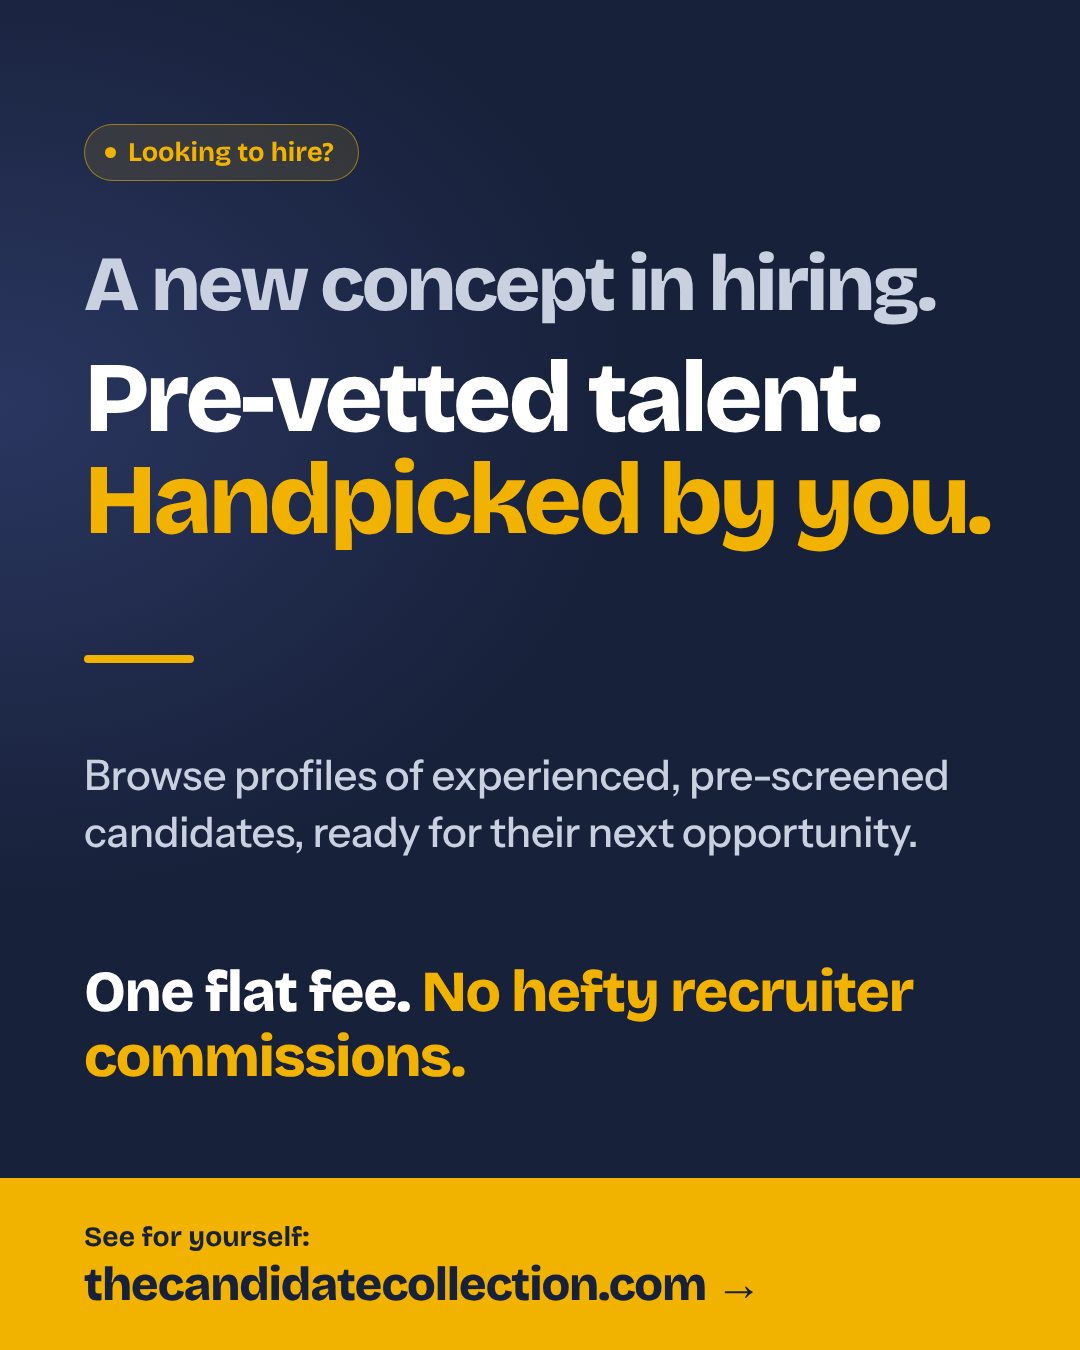
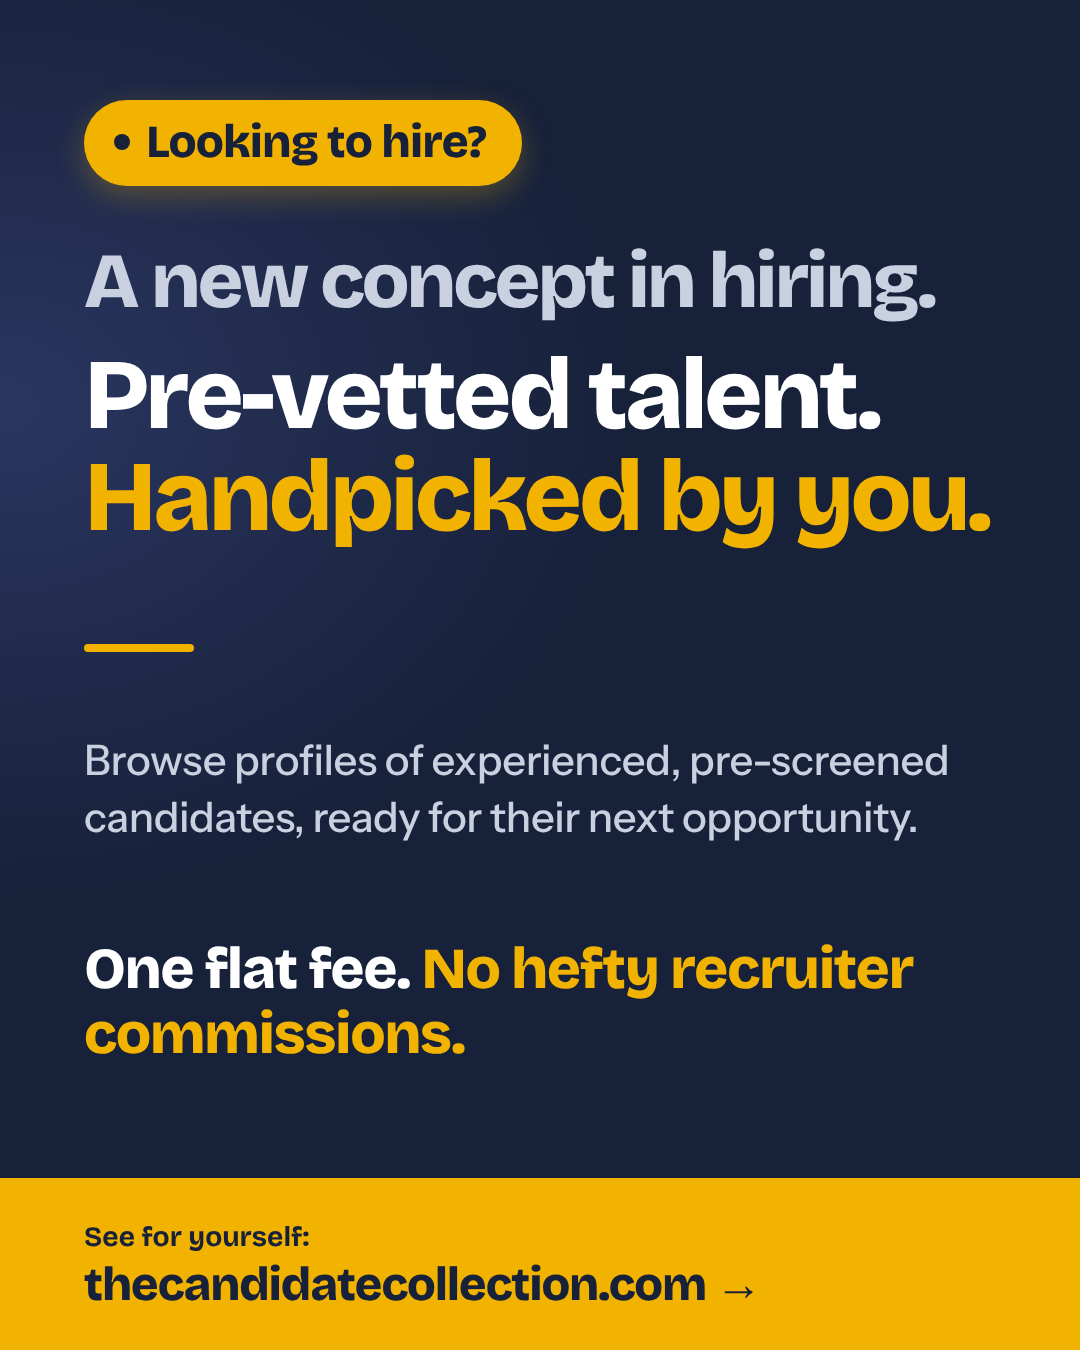
Share posters: bigger, solid 'Looking to hire?' label on all four, both sizes; poster sources kept in design/posters
Claude-Session: https://claude.ai/code/session_01EZeEyNzeQFPN4DFsUvzuMe

diff --git a/design/posters/words.html b/design/posters/words.html
@@ -1,0 +1,36 @@
+<!doctype html><meta charset="utf-8"><style>
+@font-face{font-family:B;src:url("file:///home/claude/hiring-platform/node_modules/@fontsource-variable/bricolage-grotesque/files/bricolage-grotesque-latin-wght-normal.woff2") format("woff2");font-weight:200 800}
+@font-face{font-family:I;src:url("file:///home/claude/hiring-platform/node_modules/@fontsource-variable/instrument-sans/files/instrument-sans-latin-wght-normal.woff2") format("woff2");font-weight:400 700}
+*{box-sizing:border-box}html,body{margin:0}
+body{width:1080px;height:var(--h);background:#17213a radial-gradient(900px 700px at 0% 30%, #2a3660 0%, rgba(42,54,96,0) 70%);color:#fff;font-family:I;position:relative;overflow:hidden}
+.in{position:absolute;left:84px;right:84px;top:var(--top)}
+.pill{display:inline-flex;align-items:center;gap:16px;background:#f2b300;color:#17213a;font-family:B;font-weight:800;font-size:46px;letter-spacing:-.02em;border-radius:999px;padding:14px 36px 17px 30px;box-shadow:0 10px 30px rgba(242,179,0,.28)}
+.pill i{width:16px;height:16px;border-radius:50%;background:#17213a}
+h1{font-family:B;font-weight:800;font-size:var(--h1);line-height:1.0;letter-spacing:-.04em;margin:var(--m1) 0 0;color:#c9d0e0}
+h2{font-family:B;font-weight:800;font-size:var(--h2);line-height:1.02;letter-spacing:-.04em;margin:var(--m2) 0 0;color:#fff}
+h2 span{color:#f2b300;display:block}.bar{width:110px;height:8px;border-radius:4px;background:#f2b300;margin:var(--bar)}
+.cards{display:flex;gap:18px;margin:var(--mc) 0 0}
+.card{flex:1;background:#fff;border-radius:22px;padding:22px 22px 24px;box-shadow:0 18px 40px rgba(0,0,0,.35)}
+.card:nth-child(2){transform:translateY(-14px);box-shadow:0 0 0 5px #f2b300,0 22px 46px rgba(0,0,0,.4)}
+.chip{display:inline-block;background:#fff1c2;color:#6b4f00;font-weight:700;font-size:20px;border-radius:999px;padding:5px 14px}
+.l{height:13px;border-radius:7px;background:#dfe3ec;margin-top:16px}.l.d{background:#17213a;height:16px;width:82%;margin-top:20px}.l.s{width:60%}
+.tick{margin-top:18px;font-family:B;font-weight:800;font-size:19px;color:#3f7d4e;letter-spacing:.02em}
+.s{font-size:var(--ssz);line-height:1.35;font-weight:500;color:#c9d0e0;margin:var(--ms) 0 0;letter-spacing:-.01em}
+.fee{margin:var(--mf) 0 0;font-family:B;font-weight:800;font-size:var(--fsz);line-height:1.12;letter-spacing:-.025em;color:#fff}
+.fee span{color:#f2b300}
+.band{position:absolute;left:0;right:0;bottom:0;height:var(--band);background:#f2b300;color:#17213a;padding:42px 84px 0;font-family:B}
+.band .a{font-size:28px;font-weight:700}.band .b{font-size:47px;font-weight:800;letter-spacing:-.025em;margin-top:2px}
+</style>
+<body><div class="in">
+<span class="pill"><i></i>Looking to hire?</span>
+<h1>A new concept in hiring.</h1>
+<h2>Pre-vetted talent. <span>Handpicked by you.</span></h2>
+<div class="cards" style="display:none">
+<div class="card"><span class="chip">Bookkeeping</span><div class="l d"></div><div class="l"></div><div class="l s"></div><div class="tick">✓ MET BY OUR TEAM</div></div>
+<div class="card"><span class="chip">Office manager</span><div class="l d"></div><div class="l"></div><div class="l s"></div><div class="tick">✓ MET BY OUR TEAM</div></div>
+<div class="card"><span class="chip">Sales</span><div class="l d"></div><div class="l"></div><div class="l s"></div><div class="tick">✓ MET BY OUR TEAM</div></div>
+</div>
+<div class="bar"></div><p class="s">Browse profiles of experienced, pre-screened candidates, ready for their next opportunity.</p>
+<p class="fee">One flat fee. <span>No hefty recruiter commissions.</span></p>
+</div>
+<div class="band"><div class="a">See for yourself:</div><div class="b">thecandidatecollection.com →</div></div>

diff --git a/design/posters/concept.html b/design/posters/concept.html
@@ -1,0 +1,36 @@
+<!doctype html><meta charset="utf-8"><style>
+@font-face{font-family:B;src:url("file:///home/claude/hiring-platform/node_modules/@fontsource-variable/bricolage-grotesque/files/bricolage-grotesque-latin-wght-normal.woff2") format("woff2");font-weight:200 800}
+@font-face{font-family:I;src:url("file:///home/claude/hiring-platform/node_modules/@fontsource-variable/instrument-sans/files/instrument-sans-latin-wght-normal.woff2") format("woff2");font-weight:400 700}
+*{box-sizing:border-box}html,body{margin:0}
+body{width:1080px;height:var(--h);background:#17213a radial-gradient(900px 700px at 0% 30%, #2a3660 0%, rgba(42,54,96,0) 70%);color:#fff;font-family:I;position:relative;overflow:hidden}
+.in{position:absolute;left:84px;right:84px;top:var(--top)}
+.pill{display:inline-flex;align-items:center;gap:16px;background:#f2b300;color:#17213a;font-family:B;font-weight:800;font-size:46px;letter-spacing:-.02em;border-radius:999px;padding:14px 36px 17px 30px;box-shadow:0 10px 30px rgba(242,179,0,.28)}
+.pill i{width:16px;height:16px;border-radius:50%;background:#17213a}
+h1{font-family:B;font-weight:800;font-size:var(--h1);line-height:1.0;letter-spacing:-.04em;margin:var(--m1) 0 0;color:#c9d0e0}
+h2{font-family:B;font-weight:800;font-size:var(--h2);line-height:1.02;letter-spacing:-.04em;margin:var(--m2) 0 0;color:#fff}
+h2 span{color:#f2b300;display:block}
+.cards{display:flex;gap:18px;margin:var(--mc) 0 0}
+.card{flex:1;background:#fff;border-radius:22px;padding:22px 22px 24px;box-shadow:0 18px 40px rgba(0,0,0,.35)}
+.card:nth-child(2){transform:translateY(-14px);box-shadow:0 0 0 5px #f2b300,0 22px 46px rgba(0,0,0,.4)}
+.chip{display:inline-block;background:#fff1c2;color:#6b4f00;font-weight:700;font-size:20px;border-radius:999px;padding:5px 14px}
+.l{height:13px;border-radius:7px;background:#dfe3ec;margin-top:16px}.l.d{background:#17213a;height:16px;width:82%;margin-top:20px}.l.s{width:60%}
+.tick{margin-top:18px;font-family:B;font-weight:800;font-size:19px;color:#3f7d4e;letter-spacing:.02em}
+.s{font-size:35px;line-height:1.35;font-weight:500;color:#c9d0e0;margin:var(--ms) 0 0;letter-spacing:-.01em}
+.fee{margin:var(--mf) 0 0;font-family:B;font-weight:800;font-size:44px;line-height:1.15;letter-spacing:-.025em;color:#fff}
+.fee span{color:#f2b300}
+.band{position:absolute;left:0;right:0;bottom:0;height:var(--band);background:#f2b300;color:#17213a;padding:42px 84px 0;font-family:B}
+.band .a{font-size:28px;font-weight:700}.band .b{font-size:47px;font-weight:800;letter-spacing:-.025em;margin-top:2px}
+</style>
+<body><div class="in">
+<span class="pill"><i></i>Looking to hire?</span>
+<h1>A new concept in hiring.</h1>
+<h2>Pre-vetted talent. <span>Handpicked by you.</span></h2>
+<div class="cards">
+<div class="card"><span class="chip">Bookkeeping</span><div class="l d"></div><div class="l"></div><div class="l s"></div><div class="tick">✓ MET BY OUR TEAM</div></div>
+<div class="card"><span class="chip">Office manager</span><div class="l d"></div><div class="l"></div><div class="l s"></div><div class="tick">✓ MET BY OUR TEAM</div></div>
+<div class="card"><span class="chip">Sales</span><div class="l d"></div><div class="l"></div><div class="l s"></div><div class="tick">✓ MET BY OUR TEAM</div></div>
+</div>
+<p class="s">Browse profiles of experienced, pre-screened candidates, ready for their next opportunity.</p>
+<p class="fee">One flat fee. <span>No hefty recruiter commissions.</span></p>
+</div>
+<div class="band"><div class="a">See for yourself:</div><div class="b">thecandidatecollection.com →</div></div>

diff --git a/design/posters/revo.html b/design/posters/revo.html
@@ -1,0 +1,28 @@
+<!doctype html><meta charset="utf-8"><style>
+@font-face{font-family:B;src:url("file:///home/claude/hiring-platform/node_modules/@fontsource-variable/bricolage-grotesque/files/bricolage-grotesque-latin-wght-normal.woff2") format("woff2");font-weight:200 800}
+@font-face{font-family:I;src:url("file:///home/claude/hiring-platform/node_modules/@fontsource-variable/instrument-sans/files/instrument-sans-latin-wght-normal.woff2") format("woff2");font-weight:400 700}
+*{box-sizing:border-box}html,body{margin:0}
+body{width:1080px;height:var(--h);background:#17213a radial-gradient(900px 700px at 100% 62%, #2a3660 0%, rgba(42,54,96,0) 70%);color:#fff;font-family:I;position:relative;overflow:hidden}
+.in{position:absolute;left:84px;right:84px;top:var(--top)}
+.pill{display:inline-flex;align-items:center;gap:16px;background:#f2b300;color:#17213a;font-family:B;font-weight:800;font-size:46px;letter-spacing:-.02em;border-radius:999px;padding:14px 36px 17px 30px;box-shadow:0 10px 30px rgba(242,179,0,.28)}
+.pill i{width:16px;height:16px;border-radius:50%;background:#17213a}
+h1{font-family:B;font-weight:800;font-size:var(--h1);line-height:1.0;letter-spacing:-.04em;margin:var(--m1) 0 0;color:#fff}
+.bar{width:110px;height:8px;border-radius:4px;background:#f2b300;margin:var(--bar)}
+.s{font-size:35px;font-weight:600;color:#c9d0e0;margin:0;letter-spacing:-.01em}
+.big{white-space:nowrap;font-family:B;font-weight:800;font-size:var(--bigsz);line-height:1.02;letter-spacing:-.045em;color:#f2b300;margin:8px 0 14px -6px}
+.vet{margin:var(--gap) 0 0;font-family:B;font-weight:800;font-size:var(--vet);line-height:1.12;letter-spacing:-.025em;color:#fff}
+.vet span{color:#f2b300}
+.band{position:absolute;left:0;right:0;bottom:0;height:var(--band);background:#f2b300;color:#17213a;padding:42px 84px 0;font-family:B}
+.band .a{font-size:28px;font-weight:700}.band .b{font-size:47px;font-weight:800;letter-spacing:-.025em;margin-top:2px}
+</style>
+<body><div class="in">
+<span class="pill"><i></i>Looking to hire?</span>
+<h1 style="color:#c9d0e0">Unimpressed with your hiring options?</h1>
+<h1 style="margin-top:14px">We built a<br>revolutionary way<br>to hire.</h1>
+<div class="bar"></div>
+<p class="s">Tell us the position you’re hiring for.</p>
+<div class="big">Half an hour</div>
+<p class="s">later, you can have a qualified candidate to consider.</p>
+<p class="vet" style="display:none">x</p>
+</div>
+<div class="band"><div class="a">How? See for yourself:</div><div class="b">thecandidatecollection.com →</div></div>

diff --git a/design/posters/teaser.html b/design/posters/teaser.html
@@ -1,0 +1,27 @@
+<!doctype html><meta charset="utf-8"><style>
+@font-face{font-family:B;src:url("file:///home/claude/hiring-platform/node_modules/@fontsource-variable/bricolage-grotesque/files/bricolage-grotesque-latin-wght-normal.woff2") format("woff2");font-weight:200 800}
+@font-face{font-family:I;src:url("file:///home/claude/hiring-platform/node_modules/@fontsource-variable/instrument-sans/files/instrument-sans-latin-wght-normal.woff2") format("woff2");font-weight:400 700}
+*{box-sizing:border-box}html,body{margin:0}
+body{width:1080px;height:var(--h);background:#17213a radial-gradient(900px 700px at 100% 62%, #2a3660 0%, rgba(42,54,96,0) 70%);color:#fff;font-family:I;position:relative;overflow:hidden}
+.in{position:absolute;left:84px;right:84px;top:var(--top)}
+.pill{display:inline-flex;align-items:center;gap:16px;background:#f2b300;color:#17213a;font-family:B;font-weight:800;font-size:46px;letter-spacing:-.02em;border-radius:999px;padding:14px 36px 17px 30px;box-shadow:0 10px 30px rgba(242,179,0,.28)}
+.pill i{width:16px;height:16px;border-radius:50%;background:#17213a}
+h1{font-family:B;font-weight:800;font-size:var(--h1);line-height:1.0;letter-spacing:-.04em;margin:var(--m1) 0 0;color:#fff}
+.bar{width:110px;height:8px;border-radius:4px;background:#f2b300;margin:var(--bar)}
+.s{font-size:35px;font-weight:600;color:#c9d0e0;margin:0;letter-spacing:-.01em}
+.big{white-space:nowrap;font-family:B;font-weight:800;font-size:var(--bigsz);line-height:1.02;letter-spacing:-.045em;color:#f2b300;margin:8px 0 14px -6px}
+.vet{margin:var(--gap) 0 0;font-family:B;font-weight:800;font-size:var(--vet);line-height:1.12;letter-spacing:-.025em;color:#fff}
+.vet span{color:#f2b300}
+.band{position:absolute;left:0;right:0;bottom:0;height:var(--band);background:#f2b300;color:#17213a;padding:42px 84px 0;font-family:B}
+.band .a{font-size:28px;font-weight:700}.band .b{font-size:47px;font-weight:800;letter-spacing:-.025em;margin-top:2px}
+</style>
+<body><div class="in">
+<span class="pill"><i></i>Looking to hire?</span>
+<h1>Unimpressed with your hiring options?</h1>
+<div class="bar"></div>
+<p class="s">Tell us the position you’re hiring for.</p>
+<div class="big">Half an hour</div>
+<p class="s">later, you can have a qualified candidate to consider.</p>
+<p class="vet">Pre-vetted candidates <span>who fit your position and your needs.</span></p>
+</div>
+<div class="band"><div class="a">How? See for yourself:</div><div class="b">thecandidatecollection.com →</div></div>

diff --git a/design/posters/posters.js b/design/posters/posters.js
@@ -1,0 +1,20 @@
+const { chromium } = require('playwright');
+const S=__dirname;
+const jobs = [
+ ['teaser.html','owner-teaser',1350,'--top:84px;--gap:92px;--band:172px;--h1:100px;--m1:50px;--bar:66px 0 56px;--bigsz:166px;--vet:55px','.vet'],
+ ['teaser.html','owner-teaser-status',1920,'--top:300px;--gap:150px;--band:400px;--h1:100px;--m1:60px;--bar:96px 0 84px;--bigsz:166px;--vet:55px','.vet'],
+ ['concept.html','owner-concept',1350,'--top:70px;--band:172px;--h1:64px;--m1:36px;--h2:92px;--m2:14px;--mc:64px;--ms:56px;--mf:40px','.fee'],
+ ['concept.html','owner-concept-status',1920,'--top:280px;--band:400px;--h1:66px;--m1:50px;--h2:94px;--m2:18px;--mc:84px;--ms:72px;--mf:56px','.fee'],
+ ['words.html','owner-concept-words',1350,'--top:100px;--band:172px;--h1:78px;--m1:56px;--h2:100px;--m2:24px;--bar:96px 0 0;--ms:80px;--mf:92px;--ssz:42px;--fsz:58px','.fee'],
+ ['words.html','owner-concept-words-status',1920,'--top:330px;--band:400px;--h1:78px;--m1:66px;--h2:100px;--m2:26px;--bar:140px 0 0;--ms:110px;--mf:150px;--ssz:42px;--fsz:58px','.fee'],
+ ['revo.html','owner-revolutionary',1350,'--top:70px;--gap:0px;--band:172px;--h1:88px;--m1:40px;--bar:48px 0 40px;--bigsz:160px;--vet:1px','.s:last-of-type'],
+ ['revo.html','owner-revolutionary-status',1920,'--top:290px;--gap:0px;--band:400px;--h1:96px;--m1:56px;--bar:90px 0 76px;--bigsz:166px;--vet:1px','.s:last-of-type'],
+];
+(async () => { const b = await chromium.launch();
+for (const [file, name, h, css, last] of jobs) {
+const p = await (await b.newContext({ viewport: { width: 1080, height: h } })).newPage();
+await p.goto('file://' + S + '/' + file); await p.addStyleTag({ content: ':root{--h:'+h+'px;'+css+'}' }); await p.evaluate(() => document.fonts.ready); await p.waitForTimeout(350);
+const els = await p.locator('.in > p.s, .in > p.fee, .in > p.vet').evaluateAll(a => Math.round(Math.max(...a.filter(e => getComputedStyle(e).display !== 'none').map(e => e.getBoundingClientRect().bottom))));
+console.log(name.padEnd(30), 'content bottom', els, 'band top', h - parseInt(css.match(/--band:(\d+)/)[1]), 'pill', await p.evaluate(() => { const r = document.querySelector('.pill').getBoundingClientRect(); return Math.round(r.width) + 'x' + Math.round(r.height); }));
+await p.screenshot({ path: S + '/new-' + name + '.png' }); }
+await b.close(); })();
